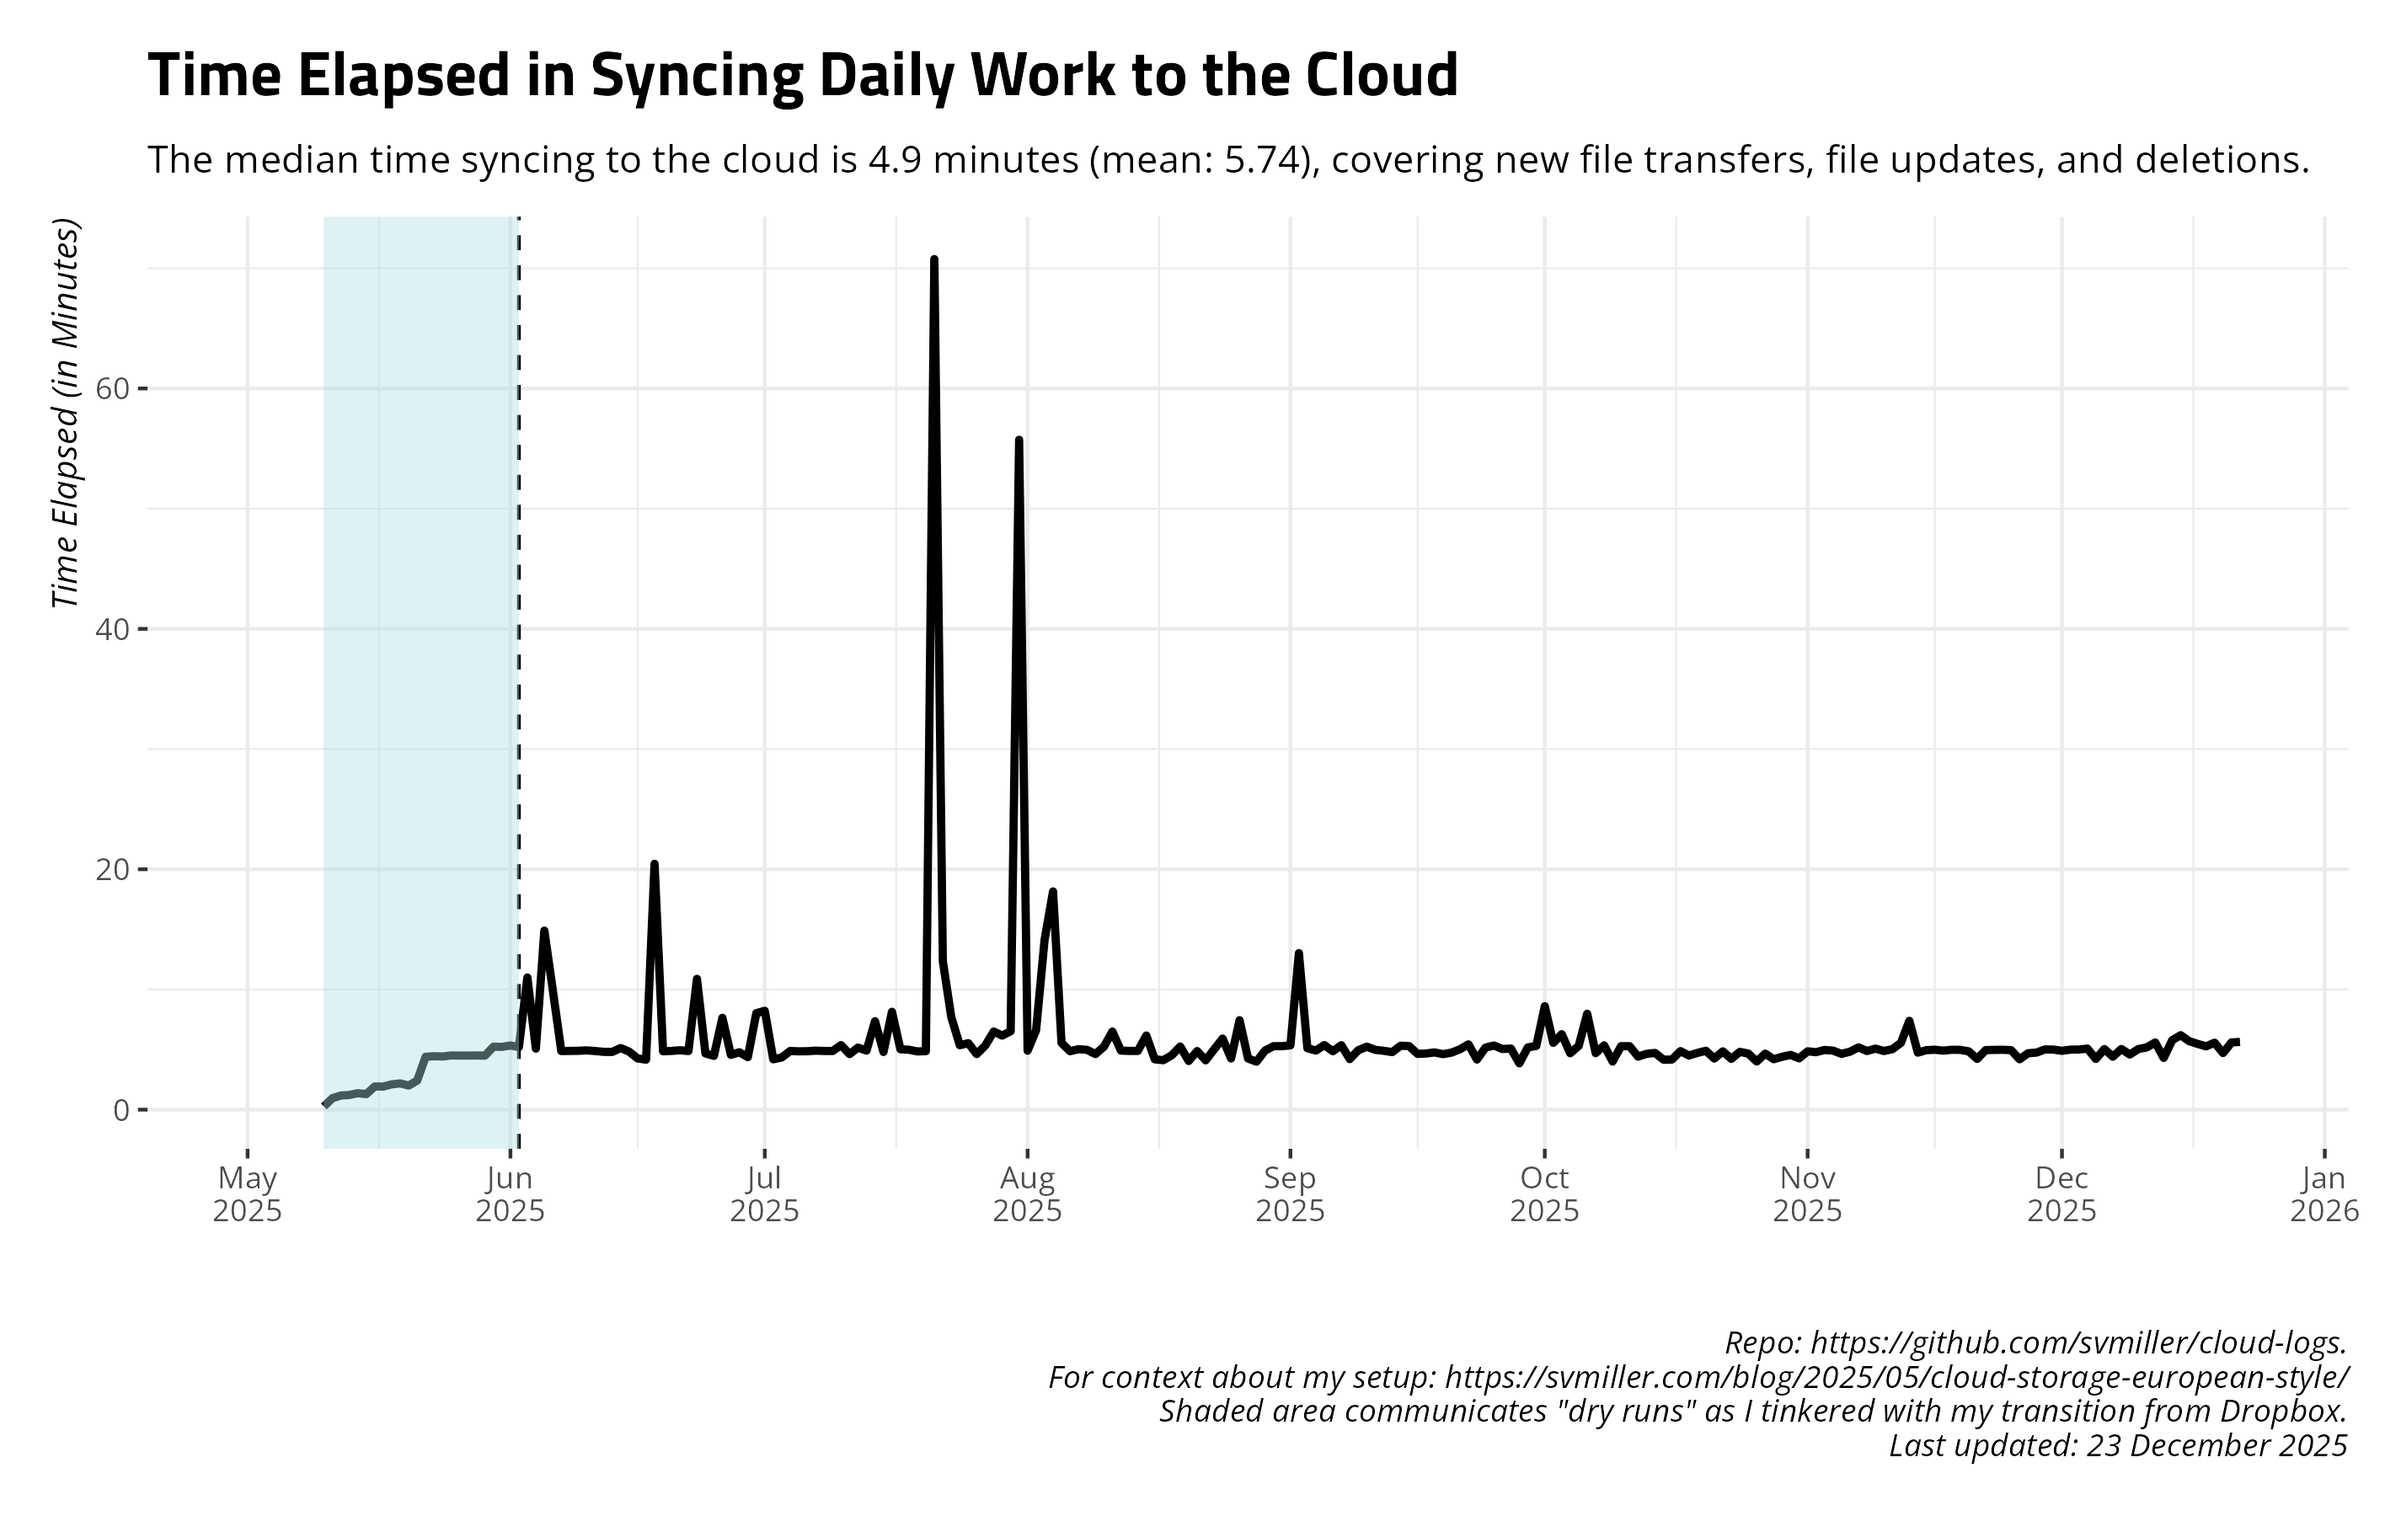
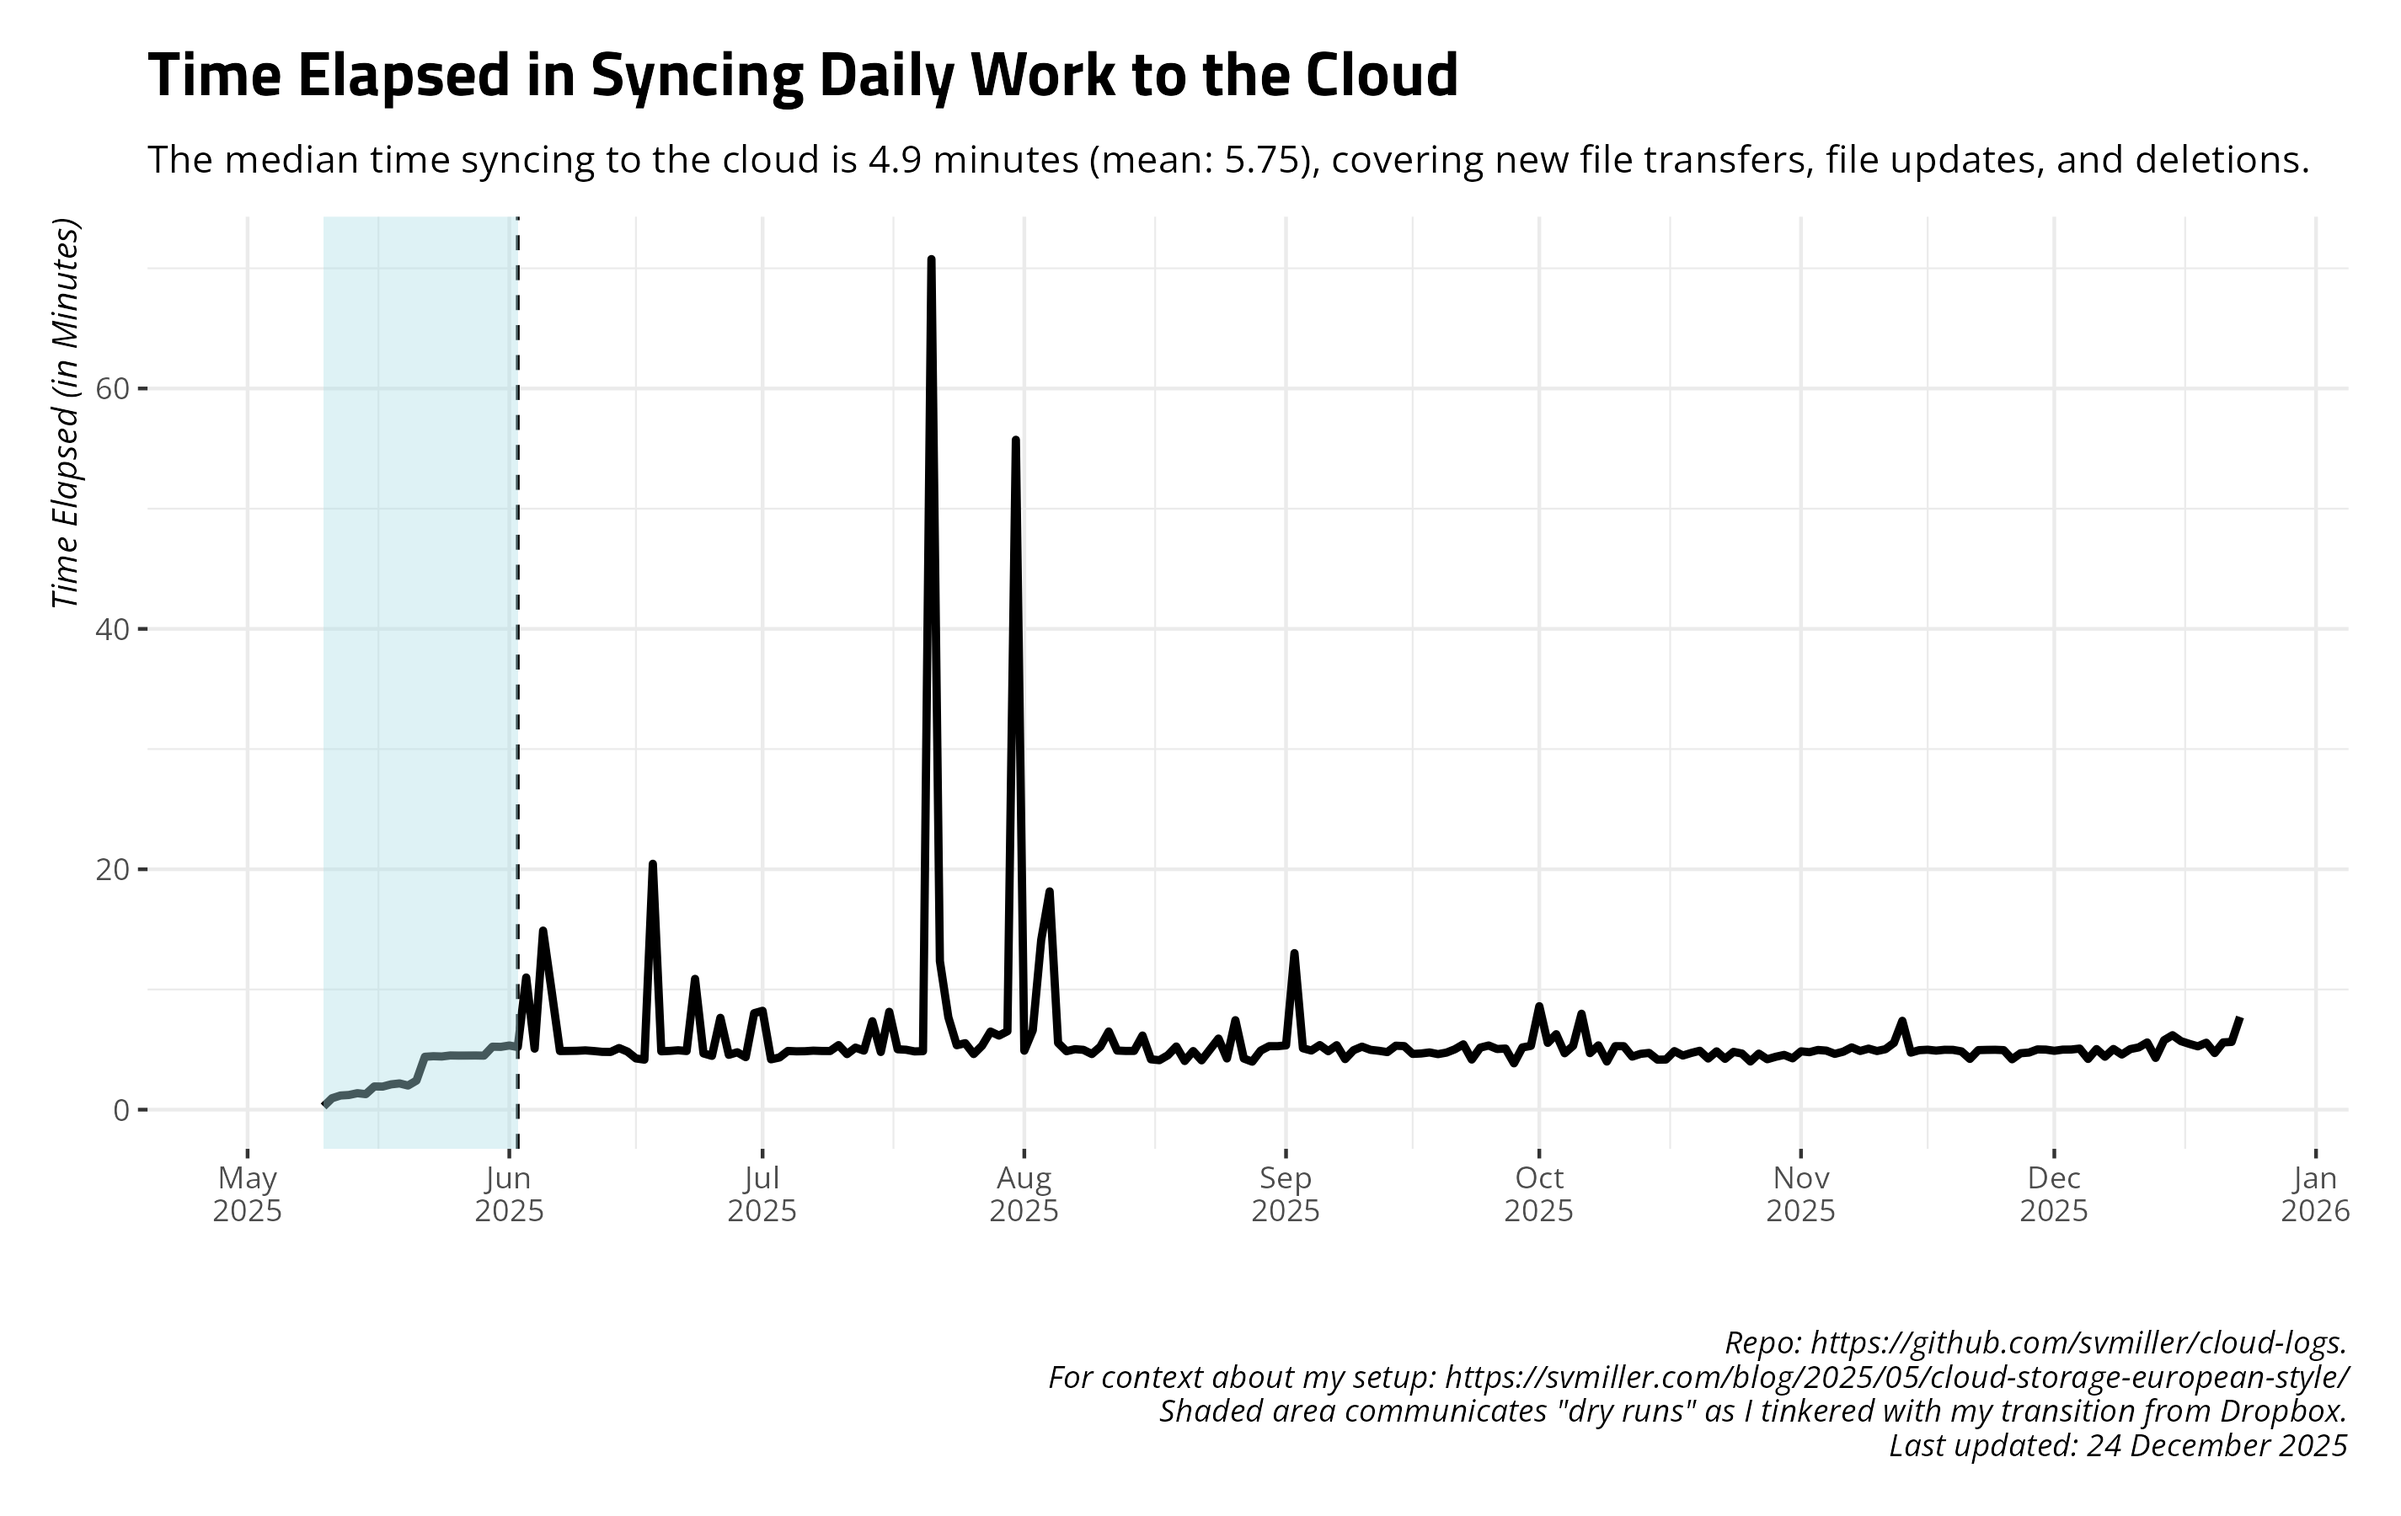
Date: 2025-12-24 09:00:19. Hi mom!

diff --git a/README.md b/README.md
@@ -27,17 +27,17 @@ and uploads to Github.
     #> # A tibble: 14 × 4
     #>    date       ftransfer stransfer   elapsed
     #>    <date>         <dbl> <chr>       <chr>  
-    #>  1 2025-12-09        92 2.153 MiB   4m35.2s
-    #>  2 2025-12-10        65 50.997 MiB  5m2.3s 
-    #>  3 2025-12-11       330 51.367 MiB  5m10.8s
-    #>  4 2025-12-12        27 85.538 KiB  5m35.5s
-    #>  5 2025-12-13        32 756.606 KiB 4m18.3s
-    #>  6 2025-12-14         0 <NA>        5m46.6s
-    #>  7 2025-12-15       142 5.094 MiB   6m11.7s
-    #>  8 2025-12-16        46 44.976 MiB  5m42.0s
-    #>  9 2025-12-17        44 26.853 MiB  5m28.3s
-    #> 10 2025-12-18        18 2.161 MiB   5m16.1s
-    #> 11 2025-12-19        10 2.981 MiB   5m34.2s
-    #> 12 2025-12-20        32 42.314 MiB  4m42.6s
-    #> 13 2025-12-21        32 35.283 MiB  5m35.8s
-    #> 14 2025-12-22        12 50.685 KiB  5m38.1s
+    #>  1 2025-12-10        65 50.997 MiB  5m2.3s 
+    #>  2 2025-12-11       330 51.367 MiB  5m10.8s
+    #>  3 2025-12-12        27 85.538 KiB  5m35.5s
+    #>  4 2025-12-13        32 756.606 KiB 4m18.3s
+    #>  5 2025-12-14         0 <NA>        5m46.6s
+    #>  6 2025-12-15       142 5.094 MiB   6m11.7s
+    #>  7 2025-12-16        46 44.976 MiB  5m42.0s
+    #>  8 2025-12-17        44 26.853 MiB  5m28.3s
+    #>  9 2025-12-18        18 2.161 MiB   5m16.1s
+    #> 10 2025-12-19        10 2.981 MiB   5m34.2s
+    #> 11 2025-12-20        32 42.314 MiB  4m42.6s
+    #> 12 2025-12-21        32 35.283 MiB  5m35.8s
+    #> 13 2025-12-22        12 50.685 KiB  5m38.1s
+    #> 14 2025-12-23        54 241.235 KiB 7m42.6s
